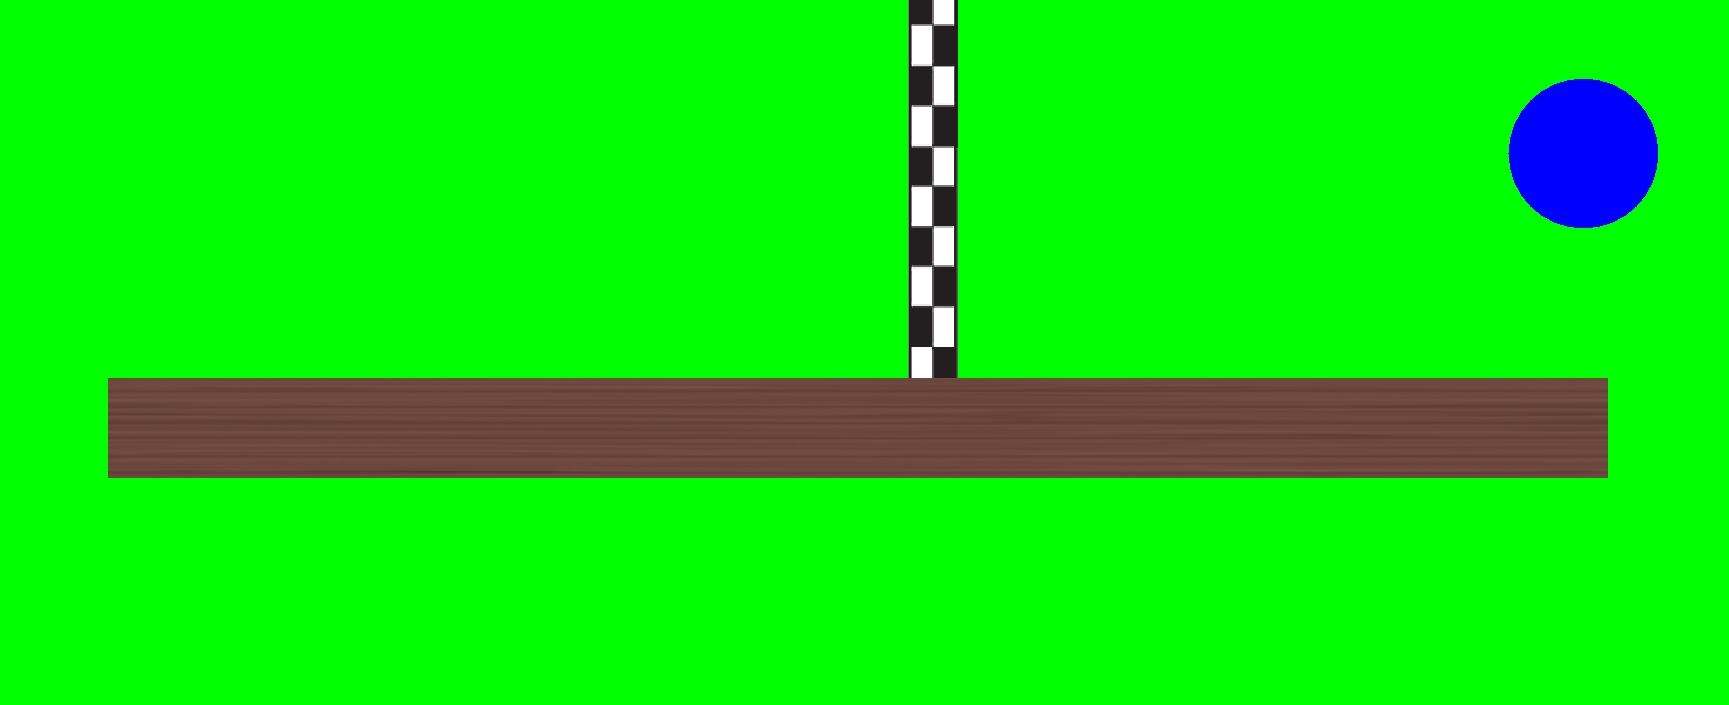
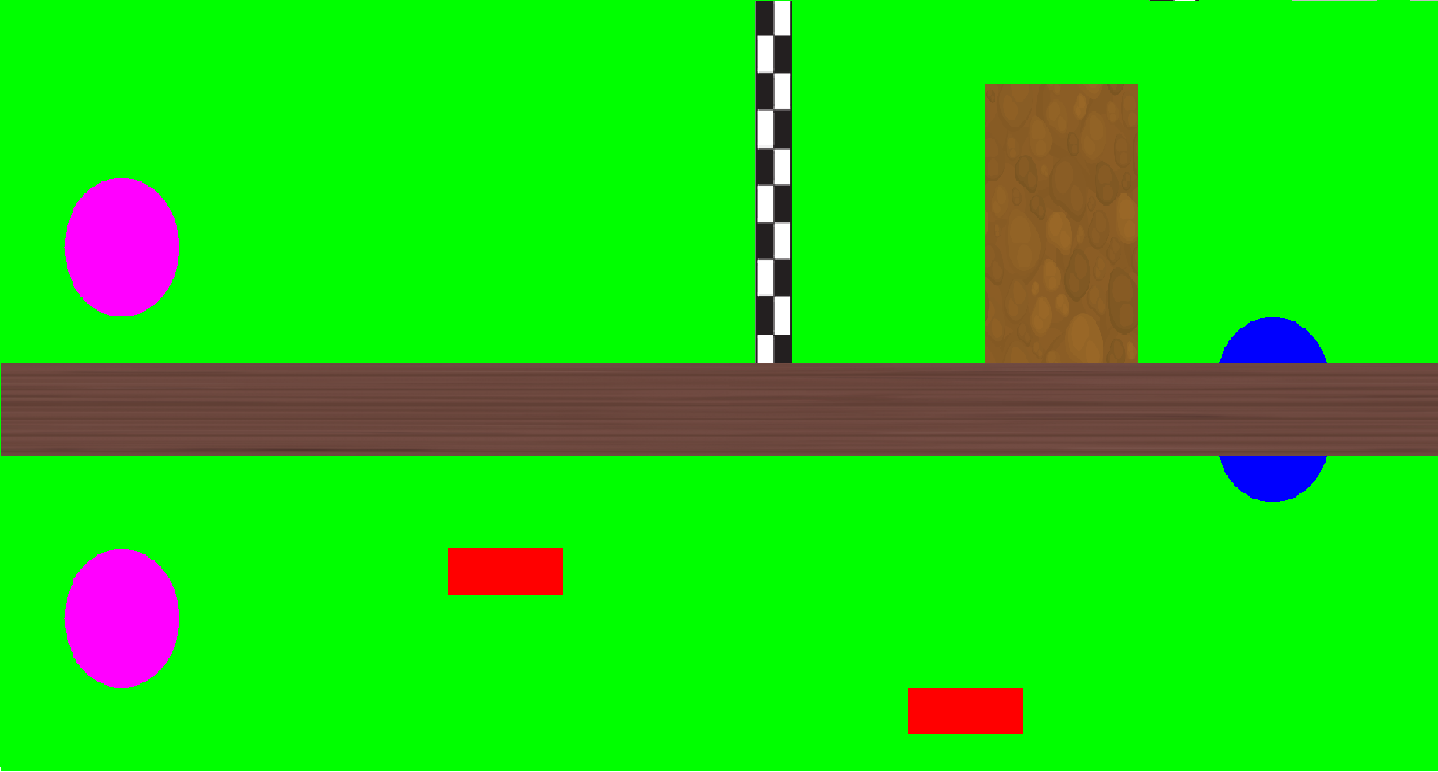
Added 5th map, fixed hitboxes, general fixes

diff --git a/src/maps/Map5.java b/src/maps/Map5.java
@@ -8,16 +8,32 @@ import src.obstacles.*;
 
 public class Map5 extends GeneralMap {
 
-    RectangleObstacle middle = new RectangleObstacle(200, 500, 1500, 100, Color.BLACK);
-    CircleObstacle portal = new CircleObstacle(1600, 200, 150, 150, Color.BLUE);
+    CircleObstacle portal1 = new CircleObstacle(1600, 450, 150, 150, Color.BLUE);
+    CircleObstacle portal2 = new CircleObstacle(1600, 500, 150, 150, Color.BLUE);
+    CircleObstacle spawn = new CircleObstacle(100, 700, 150, 150, Color.MAGENTA);
+    CircleObstacle spawn2 = new CircleObstacle(100, 300, 150, 150, Color.MAGENTA);
+
+    RectangleObstacle middle = new RectangleObstacle(0, 500, 1900, 100, Color.BLACK);
+
+    RectangleObstacle mud1 = new RectangleObstacle(1300, 200, 200, 300, Color.BLACK);
+
+    RectangleObstacle speed1 = new RectangleObstacle(600, 700, 150, 50, Color.RED);
+    RectangleObstacle speed2 = new RectangleObstacle(1200, 850, 150, 50, Color.RED);
+
     RectangleObstacle finish = new RectangleObstacle(1000, 0, 50, 500, Color.WHITE);
     RectangleObstacle cp = new RectangleObstacle(1000, 600, 50, 500, Color.LIGHT_GRAY);
 
     //Draws map
     public void drawMap(Graphics g) {
 
+        portal1.draw(g);
+        portal2.draw(g);
+        spawn.draw(g);
+        spawn2.draw(g);
         middle.draw(g, border);
-        portal.draw(g);
+        mud1.draw(g, mud);
+        speed1.draw(g);
+        speed2.draw(g);
         finish.draw(g, startLineImg);
 
         this.drawBorder(g);
@@ -28,7 +44,11 @@ public class Map5 extends GeneralMap {
 
         this.borderCollision(kart);
         middle.collision(kart);
-        portal.collision(kart);
+        mud1.collision(kart);
+        portal1.collision(kart);
+        portal2.collision(kart);
+        speed1.collision(kart);
+        speed2.collision(kart);
         finish.collision(kart);
         cp.collision(kart);
 
@@ -42,7 +62,11 @@ public class Map5 extends GeneralMap {
         this.finishLineLogic(cp, finish, iGT);
 
         wallCollision(middle, kart);
-        portalCollision(portal, kart, 200, 700);
+        dirtCollision(mud1, kart, 2);
+        boostCollision(speed1, kart, 20, 0.5);
+        boostCollision(speed2, kart, 20, 0.5);
+        portalCollision(portal1, kart, 100, 700);
+        portalCollision(portal2, kart, 100, 300);
     }
     
 }

diff --git a/src/obstacles/RectangleObstacle.java b/src/obstacles/RectangleObstacle.java
@@ -11,32 +11,30 @@ public class RectangleObstacle extends Obstacle {
         super(x, y, w, h, c);
     }
 
-    //Draws rectangle with color
+    // Draws rectangle with color
     public void draw(Graphics g) {
         g.setColor(this.getColor());
         g.fillRect(this.getXPos(), this.getYPos(), this.getWidth(), this.getHeight());
     }
 
-    //Draws rectangle with image
+    // Draws rectangle with image
     public void draw(Graphics g, BufferedImage img) {
         g.setColor(this.getColor());
         g.fillRect(this.getXPos(), this.getYPos(), this.getWidth(), this.getHeight());
         g.drawImage(img, this.getXPos(), this.getYPos(), this.getWidth(), this.getHeight(), null);
     }
 
-    //Detects collision between kart and rectangle
+    // Detects collision between kart and rectangle
     public void collision(Kart k) {
-        if (!(k.getIsDeccelerating())) {
-            this.setIsCollided(false);
-            for (int i = k.getXPos(); i < k.getXPos() + k.getWidth(); i++) {
-                if (i > this.getXPos() && i < this.getXPos() + this.getWidth()) {
-                    for (int n = k.getYPos(); n < k.getYPos() + k.getHeight(); n ++) {
-                        if (n > this.getYPos() && n < this.getYPos() + this.getHeight()) {
-                            this.setIsCollided(true);
-                        } 
+        this.setIsCollided(false);
+        for (int i = k.getXPos(); i < k.getXPos() + k.getWidth(); i++) {
+            if (i > this.getXPos() && i < this.getXPos() + this.getWidth()) {
+                for (int n = k.getYPos(); n < k.getYPos() + k.getHeight(); n++) {
+                    if (n > this.getYPos() && n < this.getYPos() + this.getHeight()) {
+                        this.setIsCollided(true);
                     }
-                } 
+                }
             }
-        } 
+        }
     }
 }

diff --git a/src/obstacles/CircleObstacle.java b/src/obstacles/CircleObstacle.java
@@ -10,24 +10,22 @@ public class CircleObstacle extends Obstacle {
         super(x, y, w, h, c);
     }
 
-    //Draws circle
+    // Draws circle
     public void draw(Graphics g) {
         g.setColor(this.getColor());
         g.fillOval(this.getXPos(), this.getYPos(), this.getWidth(), this.getHeight());
     }
 
-    //Detects collision between kart and circle
+    // Detects collision between kart and circle
     public void collision(Kart kart) {
         this.setIsCollided(false);
-        if (!(kart.getIsDeccelerating())) {
-            for (int r = this.getHeight() / 2; r > this.getHeight() / 4; r--) {
-                for (int t = 0; t < 360; t+= 5) {
-                    int x = (int)(r * Math.cos(Math.toRadians(t))) + (this.getXPos() + (this.getWidth() / 2));
-                    int y = (int)(r * Math.sin(Math.toRadians(t))) + (this.getYPos() + (this.getHeight() / 2));
-                    if (x > kart.getXPos() && x < kart.getXPos() + kart.getWidth()) {
-                        if (y > kart.getYPos() && y < kart.getYPos() + kart.getHeight()) {
-                            this.setIsCollided(true);
-                        }
+        for (int r = this.getHeight() / 2; r > this.getHeight() / 4; r--) {
+            for (int t = 0; t < 360; t += 5) {
+                int x = (int) (r * Math.cos(Math.toRadians(t))) + (this.getXPos() + (this.getWidth() / 2));
+                int y = (int) (r * Math.sin(Math.toRadians(t))) + (this.getYPos() + (this.getHeight() / 2));
+                if (x > kart.getXPos() && x < kart.getXPos() + kart.getWidth()) {
+                    if (y > kart.getYPos() && y < kart.getYPos() + kart.getHeight()) {
+                        this.setIsCollided(true);
                     }
                 }
             }

diff --git a/src/Kart.java b/src/Kart.java
@@ -181,7 +181,7 @@ public class Kart extends Physics {
  
     //D key pressed
     public void moveRight() {
-        setAngle(getAngle() - 3);
+        setAngle(getAngle() - 4);
         if (getAngle() <= -1) {
             setAngle(359);
         }        
@@ -189,7 +189,7 @@ public class Kart extends Physics {
  
     //A key pressed
     public void moveLeft() {
-        setAngle(getAngle() + 3);
+        setAngle(getAngle() + 4);
         if (getAngle() >= 360) {
             setAngle(0);
         }        
@@ -203,9 +203,10 @@ public class Kart extends Physics {
  
         //Keep Inertia
         this.accTime = inertia(this.isAccelerating, this.isDeccelerating, this.accTime, this.frictionLevel);
- 
-        if (this.getXPos() > 1920) {
-            this.setXPos(0);
+
+        if (this.getXPos() > 1920 || this.getXPos() < 0 || this.getYPos() < 0 || this.getYPos() > 1080) {
+            this.setXPos(900);
+            this.setYPos(200);
         }
  
     }    

diff --git a/src/gameWindows/Game.java b/src/gameWindows/Game.java
@@ -53,10 +53,10 @@ public class Game {
         //Draws UI
         g.setColor(Color.WHITE);
         g.setFont(new Font("TimesRoman", Font.PLAIN, 50));
-        g.drawString("Speed: " + String.valueOf(Math.round((kart.getAcceleration() * kart.getAccTime()) / kart.getTractionLevel())), 900, 925);
         g.setFont(new Font("Georgia", Font.PLAIN, 24));
         g.drawString("Laps Completed: " + String.valueOf(GeneralMap.lapCount), 25, 50);
         g.drawString("Elapsed Time: " + String.format("%.02f", inGameTime.getCurrentTime()), 250, 50);
+        g.drawString("Speed: " + String.format("%.02f", kart.getAccTime() * kart.getAcceleration() / kart.getTractionLevel()), 500, 50);
 
         //Hit box
         g.drawString("Show Hitbox :", 1650, 50);

diff --git a/src/maps/GeneralMap.java b/src/maps/GeneralMap.java
@@ -66,8 +66,12 @@ public class GeneralMap {
 
     //What happens when you collide with a wall
     public void wallCollision(Obstacle wall, Kart kart) {
-        if (wall.getIsCollided() && !(kart.getIsDeccelerating())) {
-            kart.setAccTime(0);
+        if (wall.getIsCollided()) {
+            if (kart.getAccTime() > 0) {
+                kart.setAccTime(-3);
+            } else if (kart.getAccTime() < 0) {
+                kart.setAccTime(2);
+            }
         }
     }
 

diff --git a/src/events/MouseEventHandler.java b/src/events/MouseEventHandler.java
@@ -1,6 +1,8 @@
-package src;
+package src.events;
 
 import java.awt.event.*;
+
+import src.GamePanel;
 
 public class MouseEventHandler extends GamePanel implements MouseListener, MouseMotionListener {
 

diff --git a/src/Main.java b/src/Main.java
@@ -1,6 +1,12 @@
 package src;
 
 import javax.swing.*;
+
+import src.events.MouseEventHandler;
+
+
+import src.events.EventListener;
+
 import java.awt.*;
  
 public class Main {

diff --git a/src/events/EventListener.java b/src/events/EventListener.java
@@ -1,6 +1,9 @@
-package src;
+package src.events;
 import java.awt.event.*;
 import javax.swing.Timer;
+
+import src.GamePanel;
+import src.Kart;
 
 import java.util.HashSet;
  
